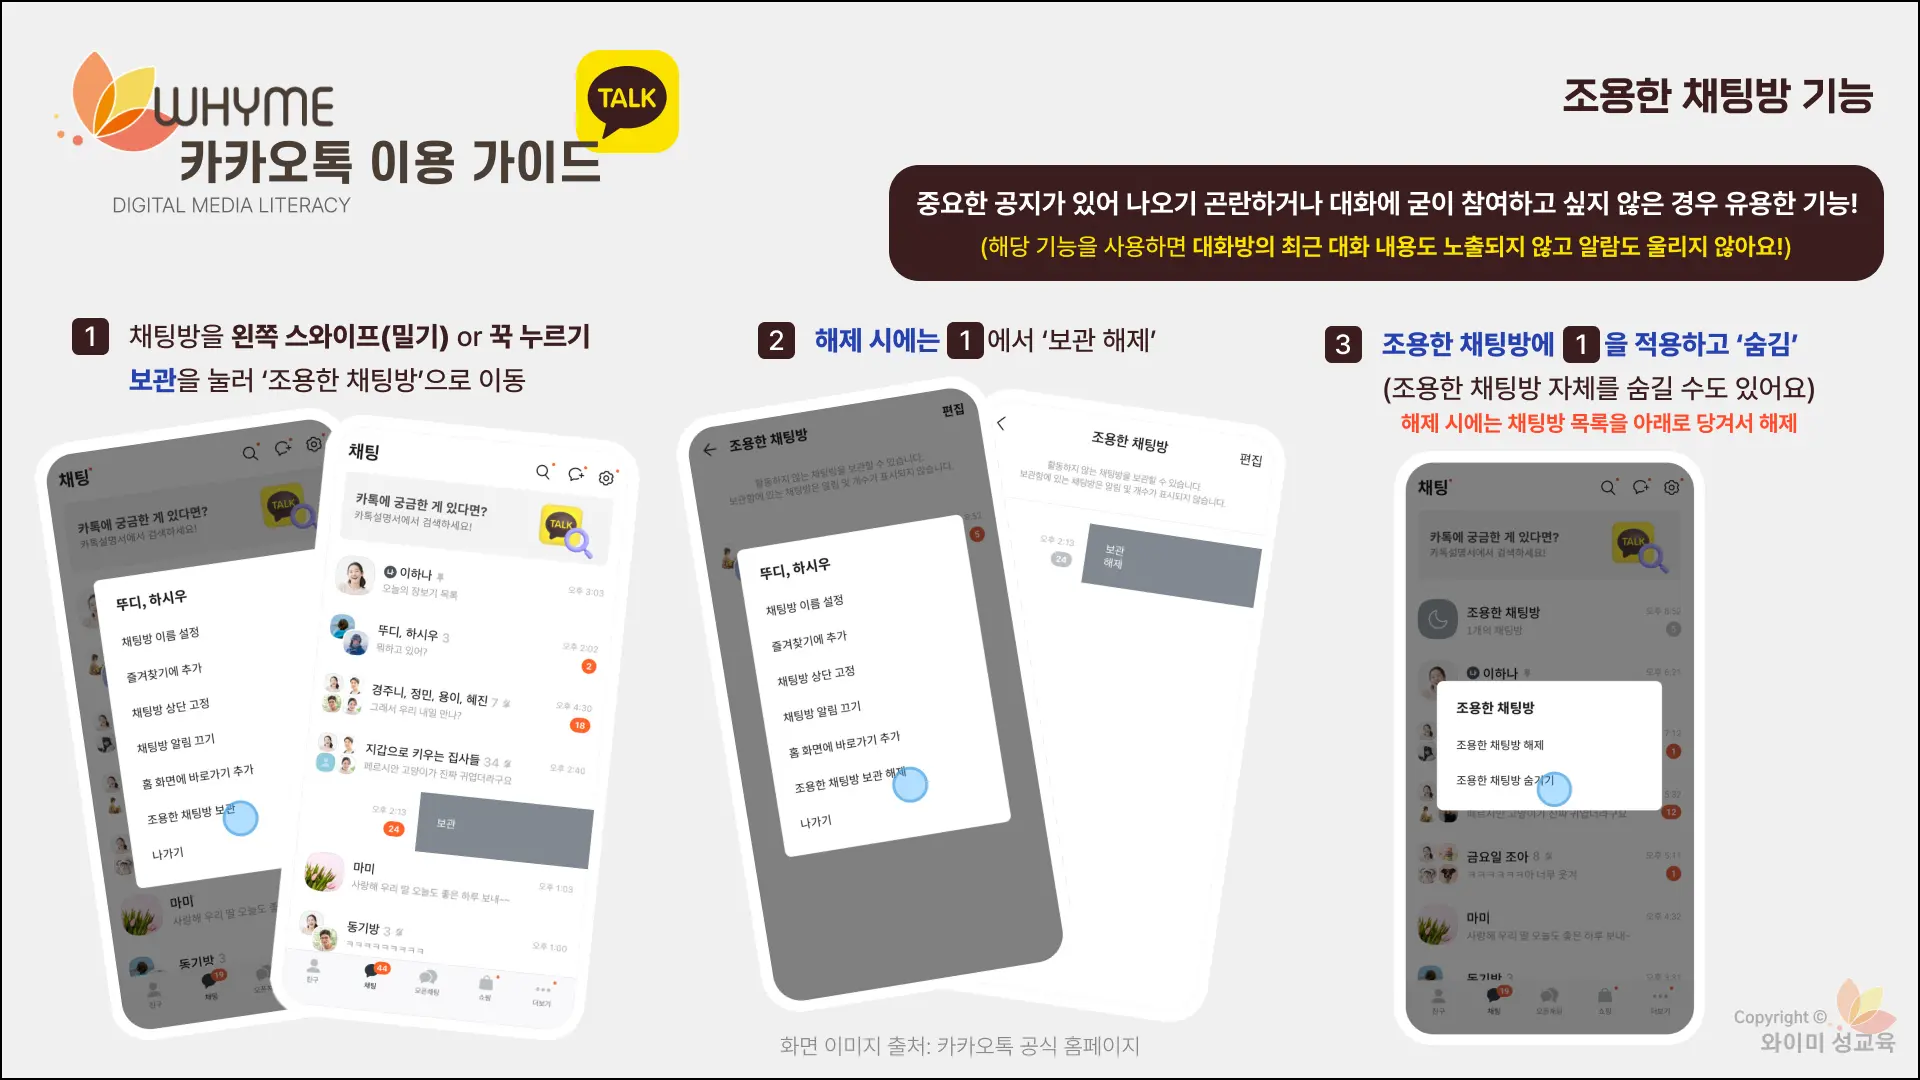
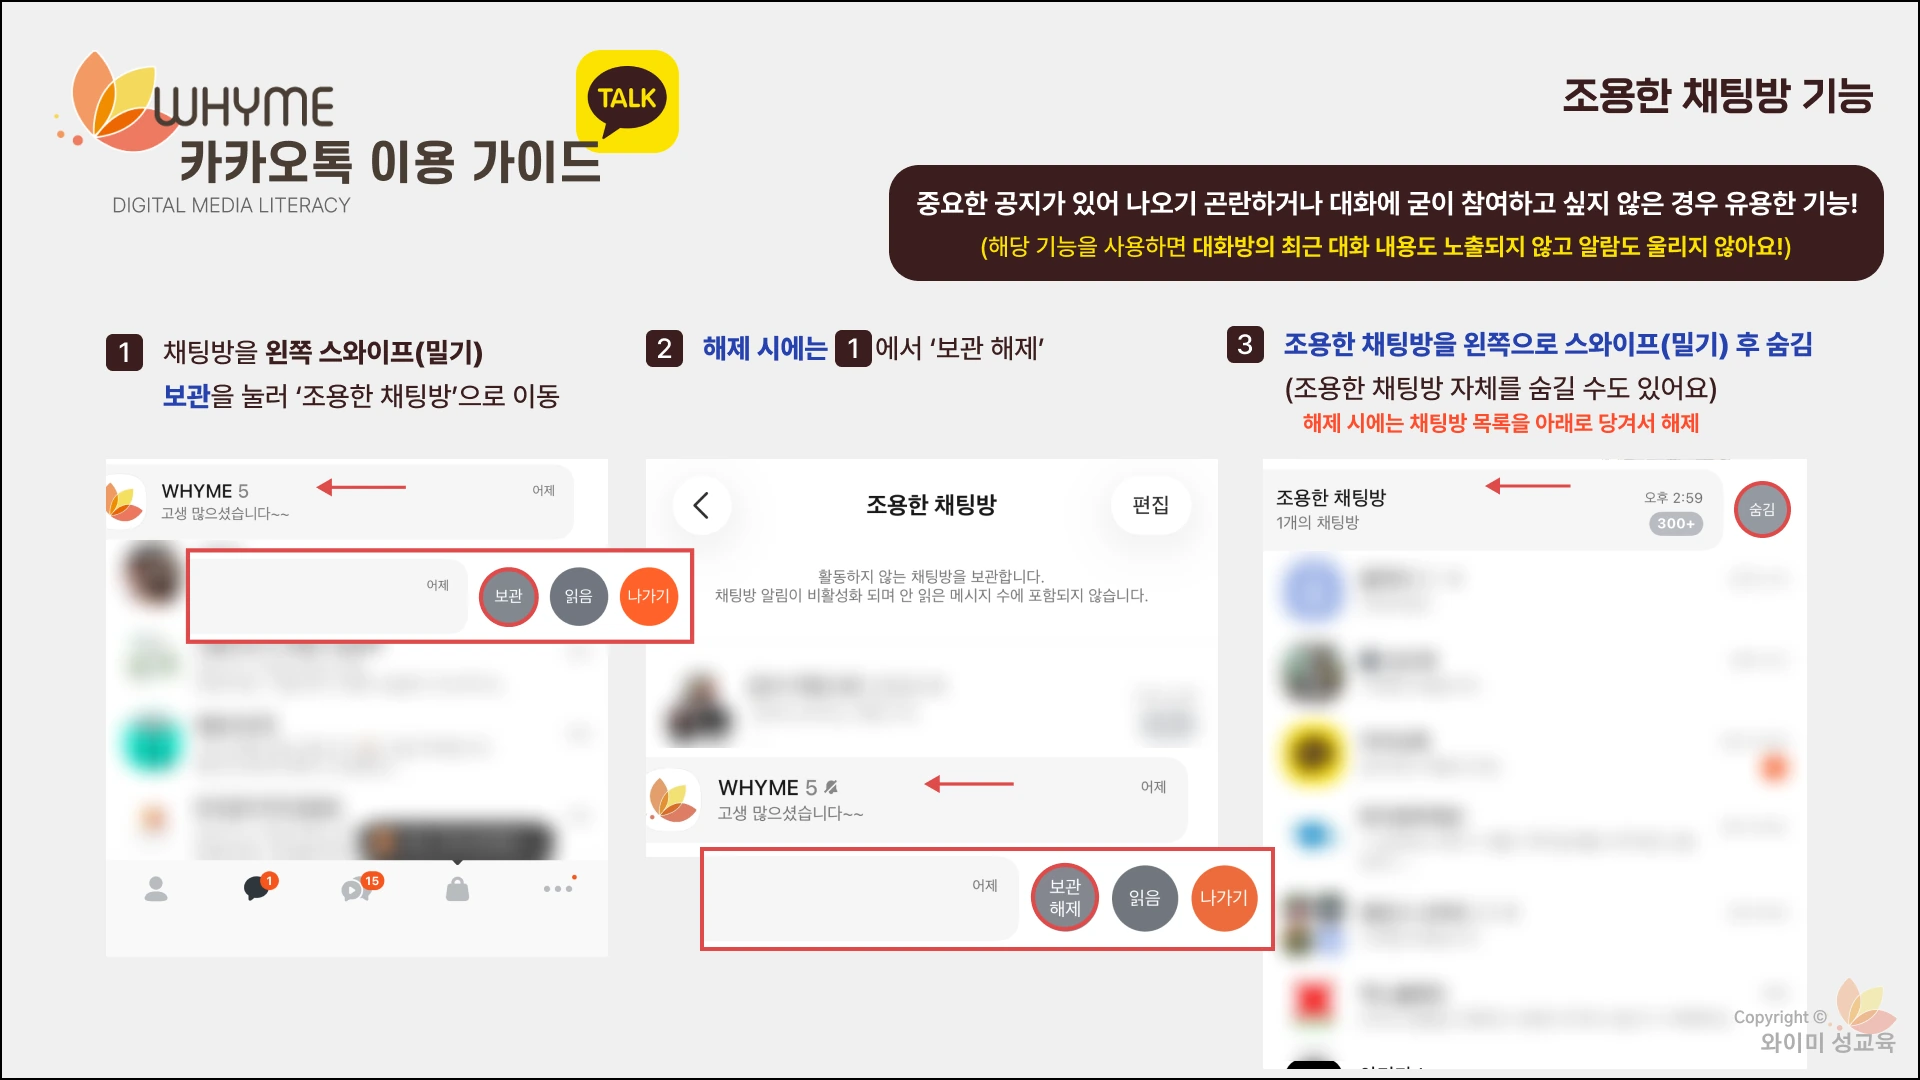
v1.1.1: 카톡 조용한 채팅방 가이드 이미지 변경

diff --git a/src/data/resources.ts b/src/data/resources.ts
@@ -395,7 +395,7 @@ export const resources: Resource[] = [
     estimatedTime: "3분",
     recommendedAge: ["초등 저학년", "초등 고학년", "중학생"],
     videoGuides: [{ title: "영상 가이드", url: "https://youtu.be/VxLnc_4ambs" }],
-    image: "/images/guides/kakao-quiet-chatroom-setting.webp",
+    image: "/images/guides/kakao-quiet-chatroom-setting/cover.webp",
   },
   {
     id: "discord-sensitive-content-filter",
